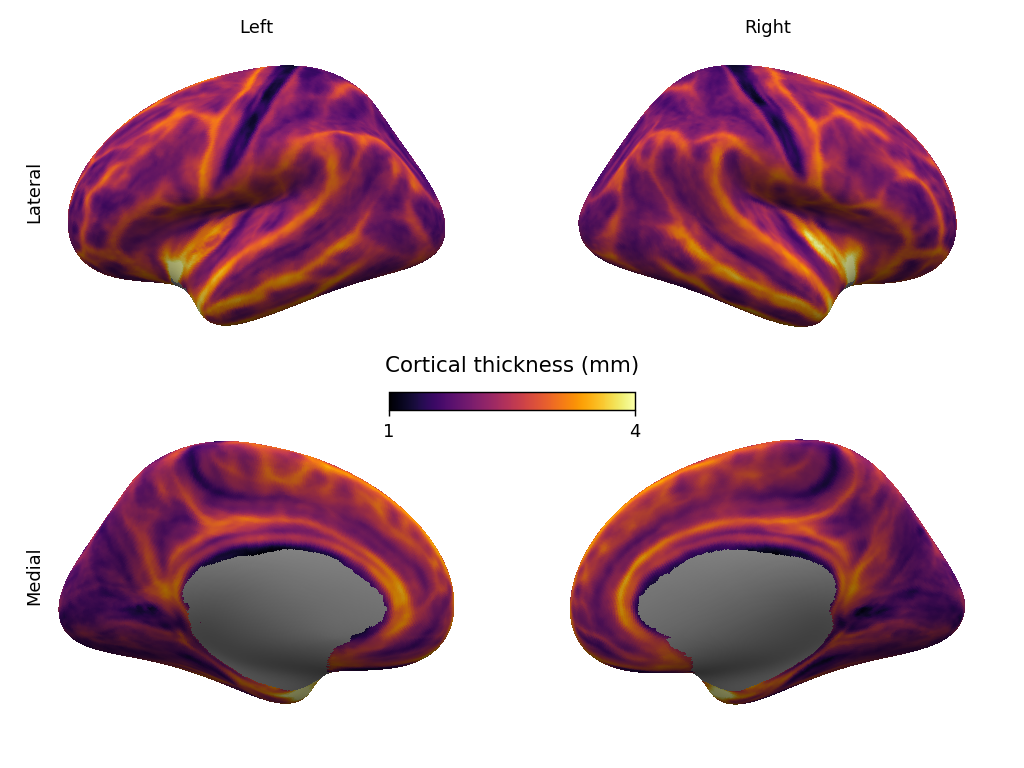
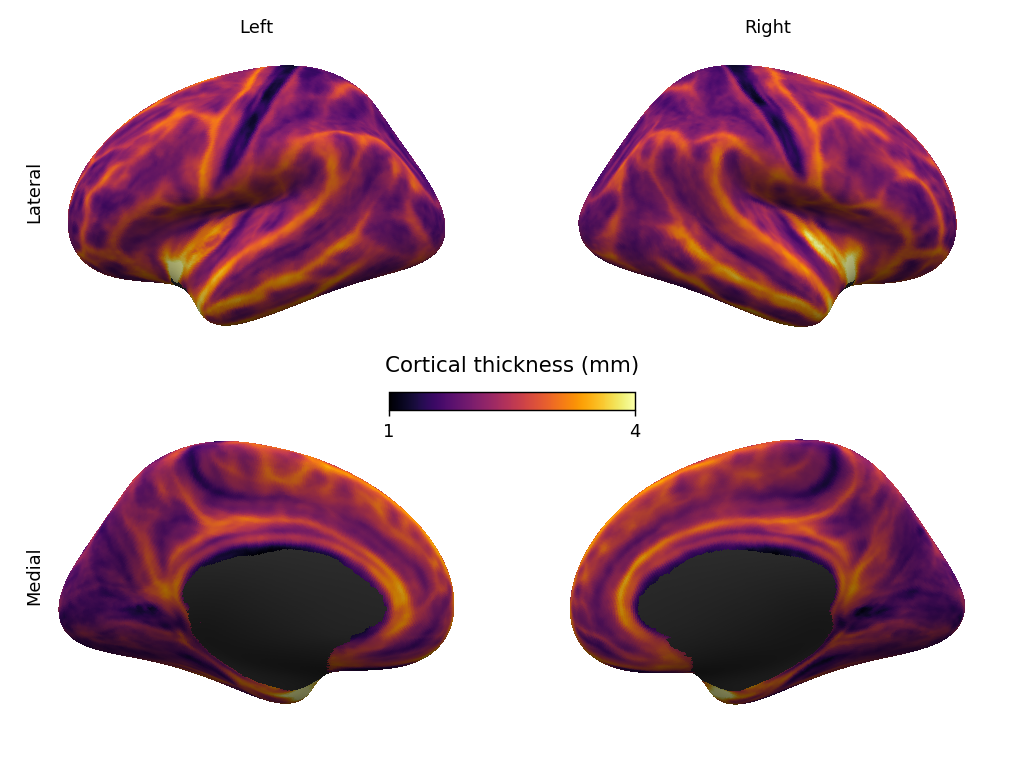
medial wall is now plotted in dark grey

Changed region(s): [[0.1562, 0.7188, 0.375, 0.9062], [0.625, 0.7188, 0.8125, 0.9062]]

diff --git a/example_plots.py b/example_plots.py
@@ -49,6 +49,7 @@ plot_surf4([lh_surf, rh_surf],
 plot_surf4([lh_surf, rh_surf],
            overlays=None,
            sulc_maps=[lh_sulc, rh_sulc],
+           ctx_masks=[lh_mask, rh_mask],
            labels=[[lh_V1, rh_V1], [lh_MT, rh_MT]],
            label_colors=['green', 'cyan'],
            output_file='human_sulcal_plot_withV1-MT.png')
@@ -63,27 +64,27 @@ plot_surf4([lh_surf, rh_surf],
            title='Cortical thickness (mm)', colorbar=True,
            output_file='human_cortical_thickness.png')
 
-# Plot correlation map
+# Plot unthresholded correlation map
 plot_surf4([lh_surf, rh_surf],
            overlays=[lh_over, rh_over],
-           sulc_maps=None,
+           sulc_maps=[lh_sulc, rh_sulc],
            ctx_masks=[lh_mask, rh_mask],
-           vmin=-1.5, threshold=0.5, vmax=1.5,
+           vmin=-1.5, threshold=None, vmax=1.5,
            cmap='RdBu_r', avg_method='mean',
            title='Correlation (Z)', colorbar=True,
            output_file='human_correlation_plot.png')
 
-# Plot correlation map with V1 labels
+# Plot correlation map with V1 and MT labels
 plot_surf4([lh_surf, rh_surf],
            overlays=[lh_over, rh_over],
-           sulc_maps=None,
+           sulc_maps=[lh_sulc, rh_sulc],
            ctx_masks=[lh_mask, rh_mask],
-           labels=[[lh_V1, rh_V1]],
-           label_colors=['green'],
-           vmin=-1.5, threshold=0.5, vmax=1.5,
+           labels=[[lh_V1, rh_V1], [lh_MT, rh_MT]],
+           label_colors=['green', 'cyan'],
+           vmin=-1.5, threshold=0.4, vmax=1.5,
            cmap='RdBu_r', avg_method='mean',
            title='Correlation (Z)', colorbar=True,
-           output_file='human_correlation_plot_withV1.png')
+           output_file='human_correlation_plot_withV1-MT.png')
 
 # Plot parcellation
 lh_parc = label_dir + 'lh.aparc.a2009s.annot'

diff --git a/brain4views.py b/brain4views.py
@@ -217,7 +217,7 @@ def plot_surf4(meshes, overlays=None,
         ##################################
         # assign greyscale colormap to sulcal map faces
         greys = plt.get_cmap('Greys', 512)
-        greys_narrow = ListedColormap(greys(np.linspace(0.4, 0.6, 256)))
+        greys_narrow = ListedColormap(greys(np.linspace(0.42, 0.58, 256)))
         face_colors = greys_narrow(sulc_faces)
 
         # Get indices of faces within the cortex
@@ -226,6 +226,7 @@ def plot_surf4(meshes, overlays=None,
         else:
             mask_faces = np.median(mask[faces], axis=1)
             kept_indices = np.where(mask_faces >= 0.5)[0]
+            masked_indices = np.where(mask_faces < 0.5)[0]
 
         if overlays is not None:
             # create face values from vertex values by selected avg methods
@@ -250,6 +251,11 @@ def plot_surf4(meshes, overlays=None,
             overlay_faces = overlay_faces / (vmax - vmin)
             face_colors[kept_indices] = cmap(overlay_faces[kept_indices])
 
+        # make non-cortical faces dark grey
+        if ctx_masks is not None:
+            face_colors[masked_indices] = [0.2, 0.2, 0.2, 1]
+
+        # assign label faces to appropriate color
         for i, L in enumerate(label_mask_faces):
             L_idx = np.where(L >= 0.5)
             face_colors[L_idx] = label_colors[i]
